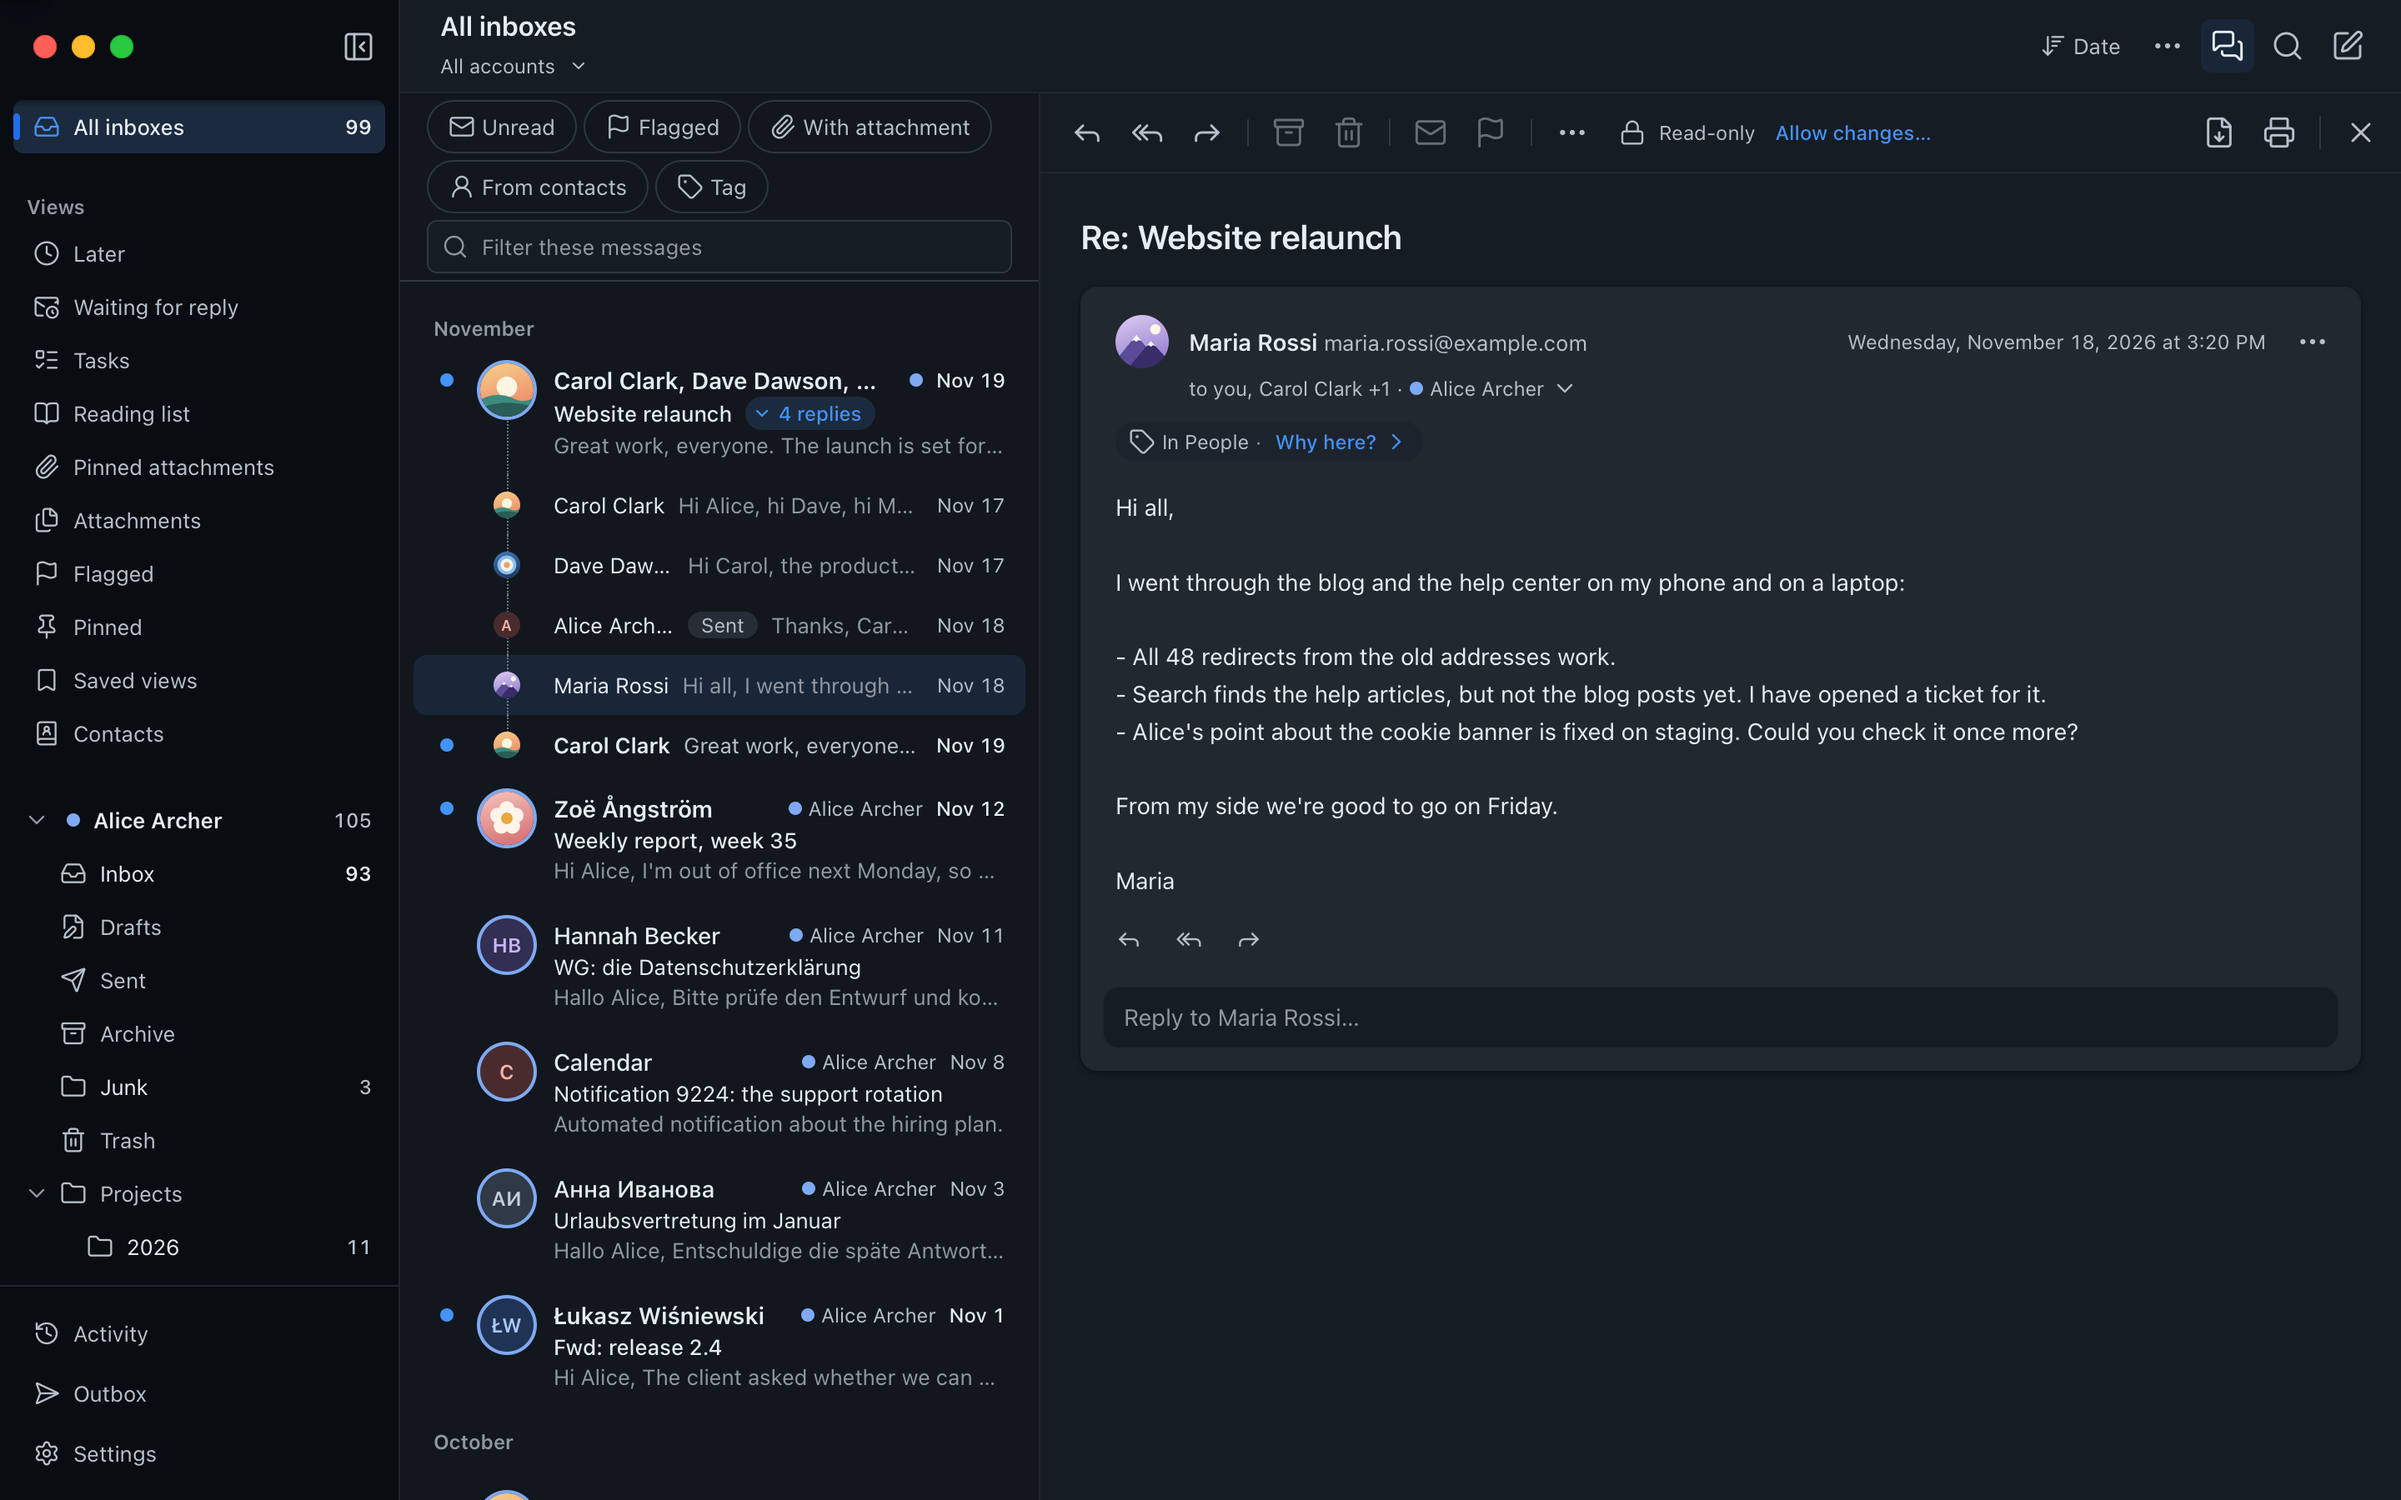
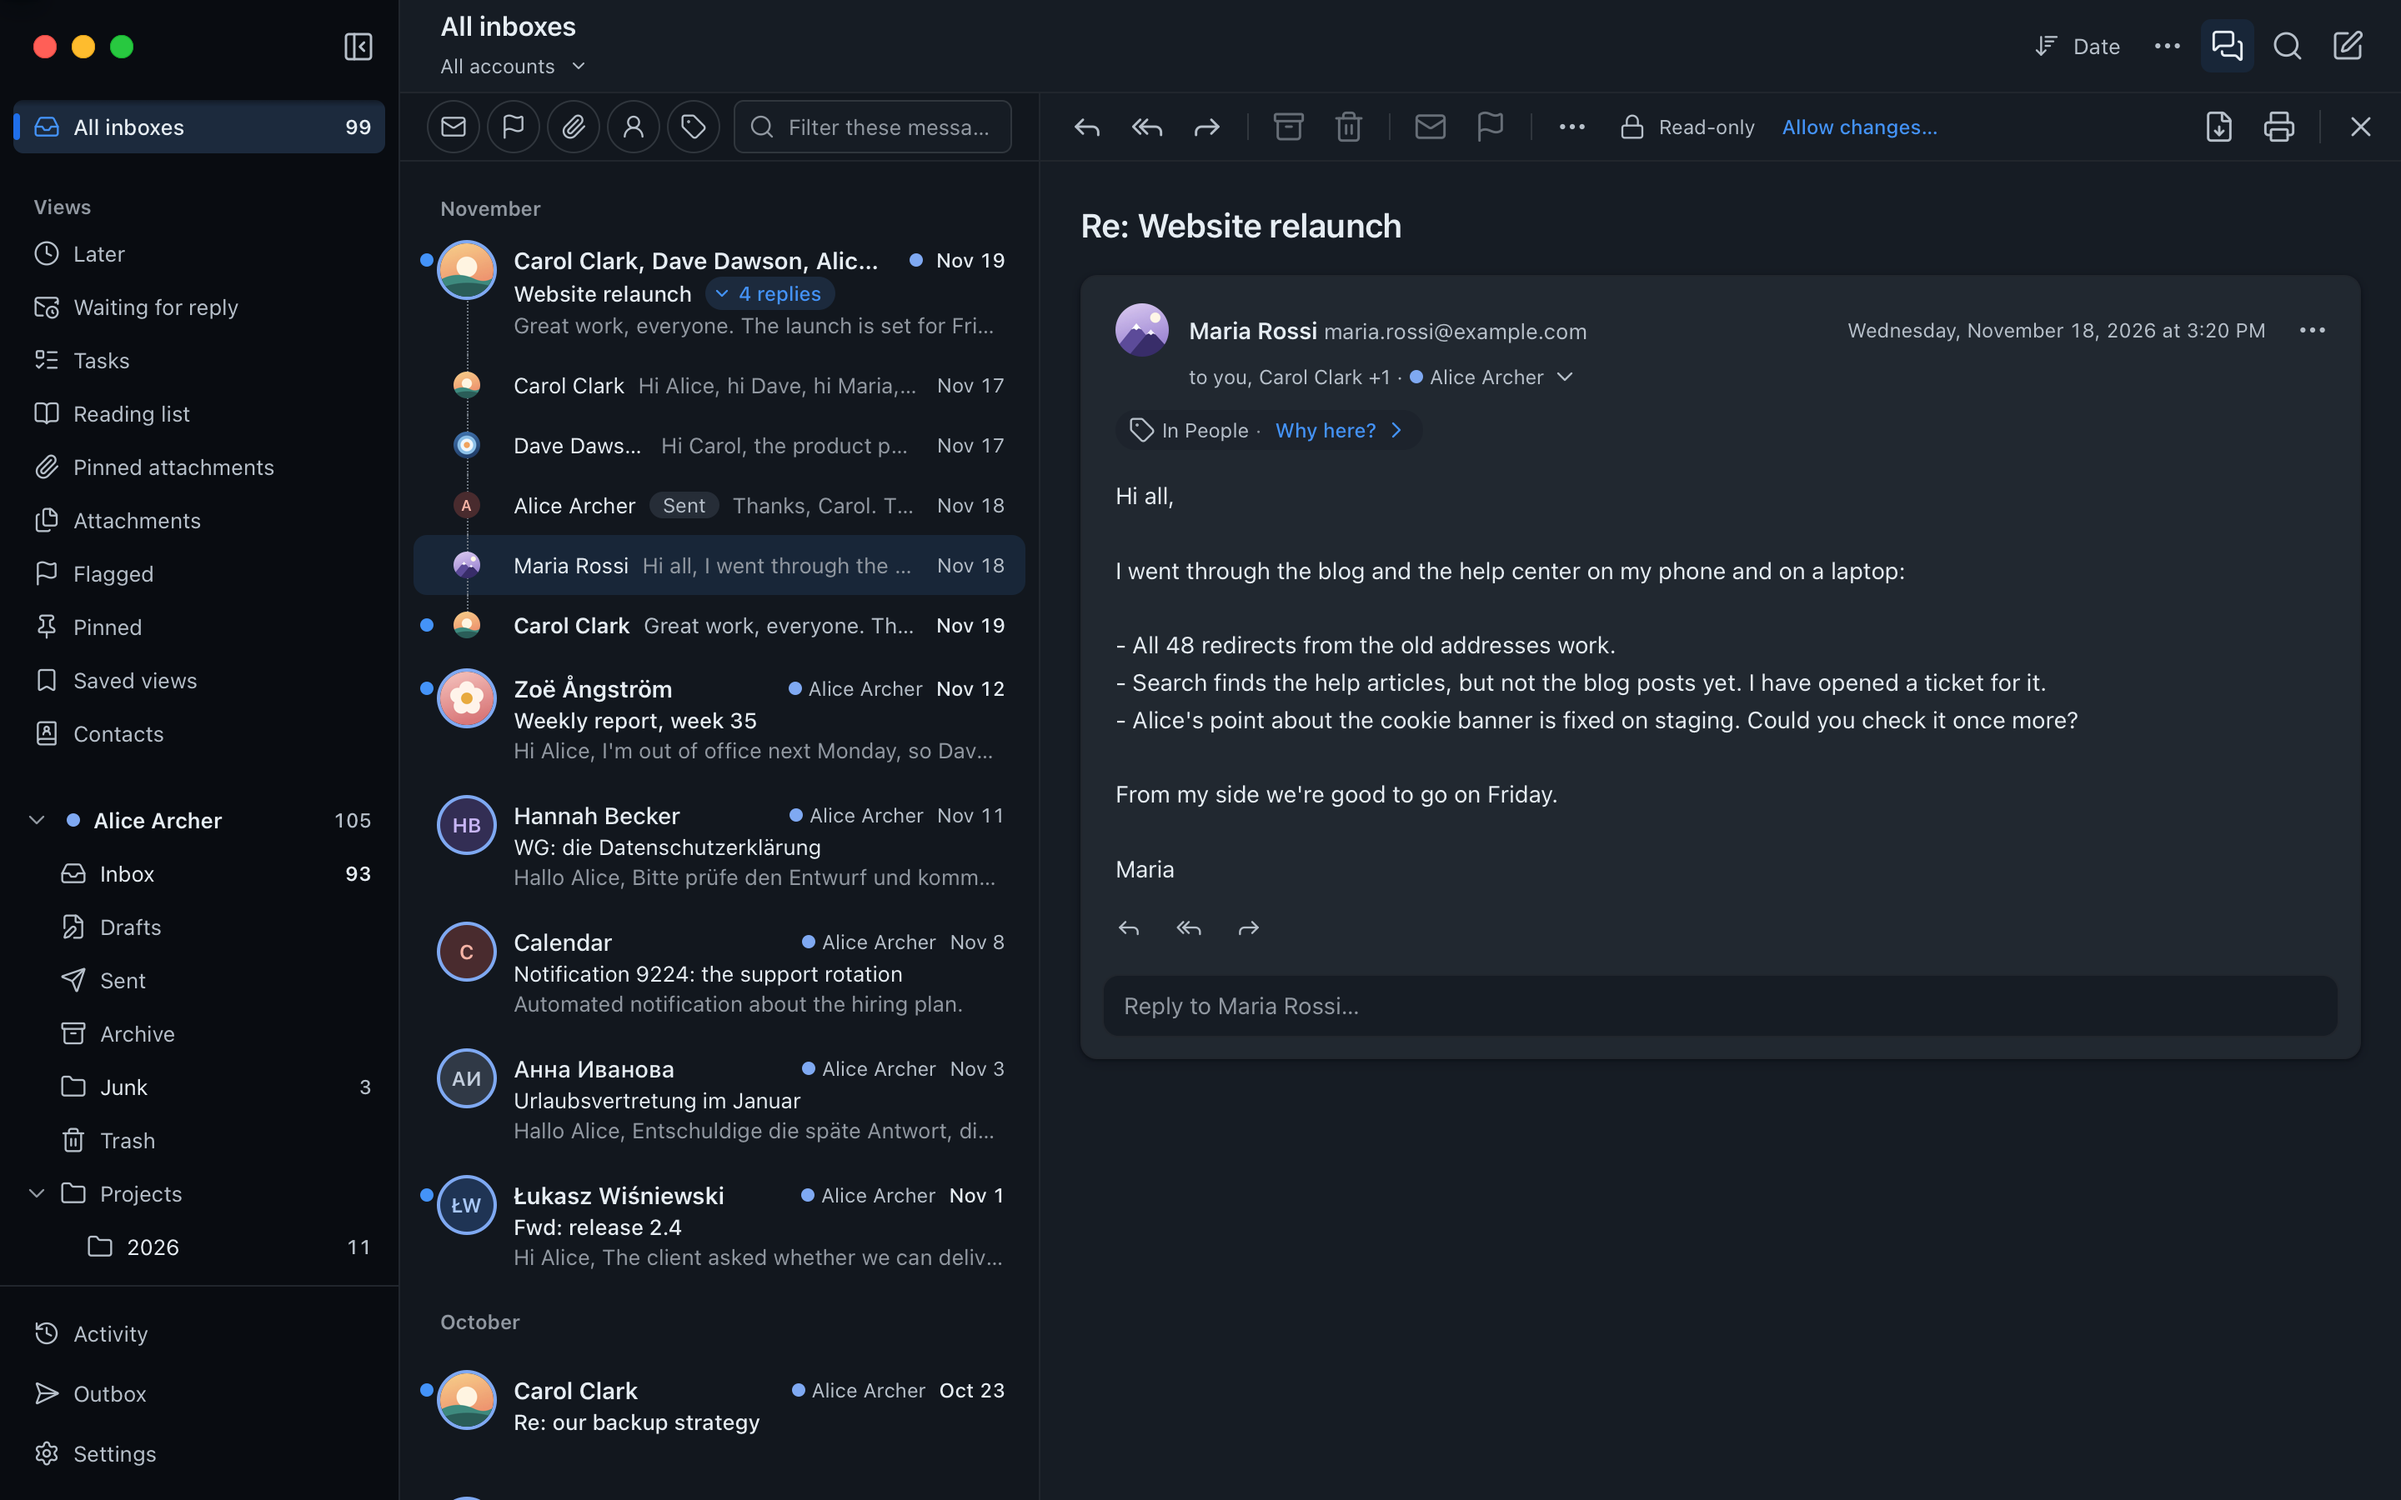
Stage 21 done: results, plan, README pictures for 0.1.2 [skip ci]

diff --git a/docs/stages/21-rueckmeldungen-0-1-1.md b/docs/stages/21-rueckmeldungen-0-1-1.md
@@ -6,9 +6,9 @@ bauen.
 **Anlass:** Test von 0.1.1 am 25.11.2026. Der Mensch hat entschieden: erst alle Rückmeldungen
 sammeln, dann umsetzen und neu bauen.
 
-**Stand:** Liste vollständig („ok das ist es erstmal, build“, 25.11.2026, 11:18). Ergibt 0.1.2.
-Aufteilung: 2+3 (Spalte), 4a+5+6 (Liste), 8+9 (Farben der Mails), 7+10 (System), danach 4
-(Abstände) auf dem zusammengeführten Stand.
+**Stand:** Umgesetzt am 25.11.2026 (Punkte 2 bis 10), ergibt 0.1.2. Punkt 1 wartet auf Angaben
+des Menschen. Aufteilung: 2+3 (Spalte), 4a+5+6 (Liste), 8+9 (Farben der Mails), 7+10 (System),
+danach 4 (Abstände) auf dem zusammengeführten Stand; je ein Subagent in eigenem Worktree.
 
 ## Rückmeldungen
 
@@ -130,4 +130,84 @@ Aufteilung: 2+3 (Spalte), 4a+5+6 (Liste), 8+9 (Farben der Mails), 7+10 (System),
 
 ## Ergebnis
 
-(offen, sammeln)
+Erledigt am 25.11.2026: Punkte 2 bis 10. Entscheidungen 0063 (Ordner als gelesen markieren,
+Menüs der Spalte), 0064 (Kontextmenü), 0065 (Schnellaktionen in gemischten Listen, Kästchen am
+Avatar), 0066 (Mails im dunklen Design), 0067 (keine Farben in ausgehenden Mails), 0068 (Logo in
+Blau, scharfe Symbole und Zähler), 0069 (Weiterlaufen im Hintergrund, Symbol, Pause), 0070 (mit
+dem System starten), 0071 (Abstände). Migration 0027 (`mark_mailbox`). Keine neuen Crates:
+Tauri-Feature `tray-icon` (Crate tray-icon 0.25.1 lag schon im Lockfile), objc2-app-kit mit
+`NSDockTile`; abgelehnt `tauri-plugin-autostart` (Login-Eintrag ohne `--background`) und
+`objc2-service-management` (letztes Release älter als 12 Monate).
+
+- **2:** „Ordner als gelesen markieren“ als eine Outbox-Aktion pro Ordner mit den beim Klick
+  ungelesenen UIDs (später eintreffende Mail bleibt ungelesen, Rückgängig ist exakt; IMAP in
+  Teilen zu höchstens 5.000 UIDs, JMAP `Email/set`). Im Menü jedes Ordners (auch per Rechtsklick
+  und Umschalt+F10), „Alle als gelesen markieren“ am Konto, am vereinten Posteingang und an
+  Kontogruppen; bei nur lesenden Konten gesperrt mit Begründung.
+- **3:** Ursache: Das Menü wuchs mit seinem längsten Eintrag nach links über die Spalte hinaus,
+  und der Fokus scrollte die Spalte waagerecht. Menüs der Spalte sind jetzt so breit wie die
+  Zeilen und brechen um, die Spalte scrollt nie waagerecht, jedes Menü öffnet nach oben oder
+  rückt zurück, wenn unten oder seitlich kein Platz ist. Desktop-Test bei 200 px Spaltenbreite in
+  Deutsch und Englisch, hell und dunkel.
+- **4:** Die leere Spalte vor dem Avatar ist weg (Kästchen an der Stelle des Avatars, Punkt
+  schmal davor). Abstands-Durchgang über alle Ansichten: Ein Vitest-Wächter lehnt Klassen für
+  Abstand, Größe, Schrift und Rundung ab, die die Tokens nicht kennen (24 solche Klassen
+  erzeugten bisher gar kein CSS, z. B. die Lücke im Knopf „Originalfarben“). Der neue
+  Desktop-Test `spacing.e2e.mjs` misst 97 Szenen (hell/dunkel, 1280×800 und 900×600) nach sieben
+  Regeln (Kopfhöhe, bündige Leisten, gleiche Höhen, Feldhöhe, Lücke Symbol–Text, gemeinsame
+  Kanten, nichts abgeschnitten): vorher 866 Verstöße, nachher keiner. Schnellfilter neben dem
+  Lesebereich einzeilig (unter 800 px Listenbreite nur Symbole mit Tooltip), bündig mit der
+  Leiste des Lesebereichs; Anhangkarten breiter; „… Antworten“-Pille nie angeschnitten;
+  geschütztes Leerzeichen vor „…“ (92 Stellen Deutsch, 4 Englisch). Vorher/Nachher-Bilder im
+  Scratchpad der Sitzung.
+- **5:** Kontextmenü in jeder Liste (Ordner, vereinter Posteingang, Ansichten, Suche, Tabelle)
+  per Rechtsklick, Kontextmenü-Taste und Umschalt+F10; oben Antworten, Archivieren, Spam, Löschen,
+  darunter die Untermenüs aus dem Plan aus dem Aktionsregister (gleiche Sperren, gleiches
+  Rückgängig wie die Leiste). Wirkt auf die Auswahl, wenn die Zeile dazugehört, sonst nur auf die
+  Zeile (gestrichelter Rahmen, Auswahl bleibt). „Kopieren in“ jetzt auch innerhalb eines Kontos.
+  Desktop-Test mit echtem Rechtsklick.
+- **6:** Vereinter Posteingang und Suchergebnisse haben die Leiste beim Überfahren und das
+  Kontextmenü, jeweils mit dem Konto der Zeile.
+- **7:** Logo in Blau (Freigabe „Blau wie im Entwurf“), alle Symbole, Wortmarke, DMG- und
+  Installer-Symbol neu erzeugt (`scripts/icons.sh`). Zahl am Taskleisten-Symbol in der Größe der
+  Bildschirmskalierung (16 bis 40 px) mit pixelgenauen Ziffern, „99+“ ab 100; das Fenster nimmt
+  die eigens gezeichnete Größe des Symbols statt eines verkleinerten 32-px-Bilds. Dock-Zahl auch
+  ohne Fenster aktuell.
+- **8:** Ursache: Seit Stufe 3 bekam jede HTML-Mail eine weiße Seite, auch schlichtes HTML ohne
+  Farben; nur reiner Text folgte dem dunklen Design. Jetzt rechnet der Kern die Farben beim
+  Aufbereiten um (`mail_content::colors`, auf dem schon bereinigten CSS, ohne Skript): helle
+  Flächen dunkel, dunkle Schrift hell, Farbton bleibt, Bilder unverändert; Kontrast danach
+  mindestens der kleinere Wert aus Original und 4,5:1 (geprüft über 568×568 Farbpaare). Mails mit
+  eigenem dunklen Schema behalten es. „Originalfarben“ pro Mail, Einstellung „Mails im dunklen
+  Design“ (angepasst / immer hell). Drucken nimmt die Originalfarben.
+- **9:** Der Composer schreibt ohne ausdrückliche Wahl keine Farbe (einzige Ausnahme war der
+  Hintergrund von Codeblöcken, jetzt eine Linie); eingefügtes HTML verliert alle Farben;
+  ausgehende Mails sagen `color-scheme: light dark`. Abweichung vom Plan: Zitate tragen gar keine
+  Farben (sie entstehen aus dem gespeicherten Original, angepasste Farben können nicht hinein).
+  Server-Test: gesendetes HTML ohne Farbe, mit Meta-Angabe.
+- **10:** Symbol im Infobereich (Windows) bzw. in der Menüleiste (macOS, ausblendbar, Zahl bis
+  „999+“) mit Öffnen, Neue Mail, Benachrichtigungen pausieren (1 Stunde / bis morgen 8 Uhr),
+  Beenden. Fenster schließen lässt die App weiterlaufen (einstellbar, Standard an), mit einmaligem
+  Hinweis; das Fenster samt WebView wird dabei freigegeben (Messung: 163–173 MB mit Fenster,
+  63–86 MB ohne). „Mit dem System starten“ (Standard aus): macOS LaunchAgent, Windows Run-Schlüssel,
+  Start mit `--background` ohne Fenster.
+
+Beim Zusammenführen gefunden und behoben: die mitgelieferte Lizenzliste fehlte für tray-icon und
+objc2-core-graphics; zwei Desktop-Tests hingen vom Stand früherer Tests ab (Linkkarte schließt,
+wenn das dunkle Design die Mail neu aufbereitet; der Newsletter des Tests landet im Bündel des
+Tages, wenn ein früherer Test einen zweiten Newsletter hinterlässt).
+
+Gesamtprüfung auf `f346eec` (Version 0.1.2, 25.11.2026, 14:16–14:34): `scripts/check.sh` grün
+(1.592 Rust-Tests, 4.203 Vitest, Clippy auch für das Windows-Ziel, Lizenzen, `cargo deny`,
+`pnpm audit`), Server-Tests 1.698 bestanden. Desktop-Suite auf `f2eff37` (nur Testdateien
+geändert): 38/38 Spec-Dateien, 197 Tests. README-Bilder neu aufgenommen.
+
+**Ungeprüft (Windows):** Taskleisten-Zahl, Fenster- und Infobereich-Symbol bei 100–200 %, Klicks
+und Menü im Infobereich, Neuaufbau des Fensters mit WebView2, Run-Schlüssel und Task-Manager,
+Kontextmenü-Taste, Abstände mit Segoe UI, Darstellung und Druck angepasster Mails
+(Abschnitt 21 in `docs/testing/windows-checklist.md`). **Ungeprüft (macOS):** echter Dock-Klick,
+Start durch launchd beim Anmelden, die Menüleiste selbst (der Testrechner kann sie nicht
+fotografieren), der echte Druck- und Speichern-Dialog aus dem Kontextmenü.
+
+**Wartet auf:** Punkt 1 (wo die Datei lag, ob der Start vom Desktop geht, ob 0.1.0 auf diesem PC
+lief); Test von 0.1.2 auf Mac und Windows.

diff --git a/docs/PLAN.md b/docs/PLAN.md
@@ -38,7 +38,7 @@ Im Projektordner eine neue Sitzung öffnen und schreiben:
 | 18 | [Spalten und Popup für neue Mails](stages/18-spalten-und-neue-mail-popup.md) | fertig (0.1.1) | Grenze Liste/Lesebereich ziehen, Aufklappen trotz Schnellaktionen, Popup mit Lesen/Löschen, Ordner anlegen, Hell mit Blau und Dunkel wie GitHub |
 | 19 | [Thunderbird-Funktionen](stages/19-thunderbird-funktionen.md) | fertig (0.1.1) | Sortieren, Tabellenansicht, Schnellfilter, Quelltext, Umleiten, Als neu, Kontaktgruppen, vCard/mbox, Übernahme aus Thunderbird |
 | 20 | [Erinnern, Anhänge, Tracker, Speicher](stages/20-erinnern-anhaenge-tracker-speicher.md) | fertig (0.1.1) | Anhang-Erinnerung, Erinnern ohne Antwort, Anhänge-Ansicht, Tracker-Schutz sichtbar, Postfach-Speicher |
-| 21 | [Rückmeldungen zu 0.1.1](stages/21-rueckmeldungen-0-1-1.md) | in Arbeit (Liste vollständig seit 25.11., 11:20) | Rückmeldungen aus dem Test von 0.1.1; ergibt 0.1.2 |
+| 21 | [Rückmeldungen zu 0.1.1](stages/21-rueckmeldungen-0-1-1.md) | fertig (0.1.2), Punkt 1 wartet auf den Menschen | Rückmeldungen aus dem Test von 0.1.1; ergibt 0.1.2 |
 | 15 | [Veröffentlichung](stages/15-veroeffentlichung.md) | wartet auf Mensch (alles ohne Veröffentlichung fertig) | öffentliches Repo, signierte Builds, Updates |
 
 Status: `offen`, `in Arbeit`, `wartet auf Mensch`, `fertig`.
@@ -107,6 +107,20 @@ Gilt, wenn der Auftrag lautet, die Stufen nacheinander ohne Begleitung abzuarbei
 - Jede Stufe endet mit grünem `scripts/check.sh` und einem Push.
 
 ## Letzter Lauf
+
+**Lauf vom 25.11.2026 (Version 0.1.2).** Der Mensch testete 0.1.1 und sammelte zehn
+Rückmeldungen (Stufe 21), dann „ok das ist es erstmal build“. Vier Subagenten in eigenen
+Worktrees (Spalte, Liste, Farben der Mails, System mit dem freigegebenen blauen Logo), danach ein
+fünfter für den Abstands-Durchgang auf dem zusammengeführten Stand. Gesamtprüfung auf `f346eec`:
+`scripts/check.sh` grün (1.592 Rust, 4.203 Vitest), Server-Tests 1.698 grün, Desktop 38/38
+Spec-Dateien (197 Tests, auf `f2eff37`). 0.1.2 liegt als Gitea-Release `v0.1.2`; GitHub bleibt
+privat.
+
+**Wartet auf den Menschen (neu):** Angaben zum Windows-Installer (Punkt 1 der Stufe 21); Test von
+0.1.2 auf Mac und Windows, besonders Infobereich, Hintergrundbetrieb, Autostart, Taskleisten-Zahl
+und die angepassten Mails im dunklen Design.
+
+### Lauf vom 24.11.2026 abends bis 25.11.2026 (0.1.1)
 
 **Lauf vom 24.11.2026 abends bis 25.11.2026 (Version 0.1.1).** Nach dem ersten Test von 0.1.0
 wünschte der Mensch Stufe 18 (Spaltengrenze, Schnellaktionen, Popup für neue Mails, Ordner
